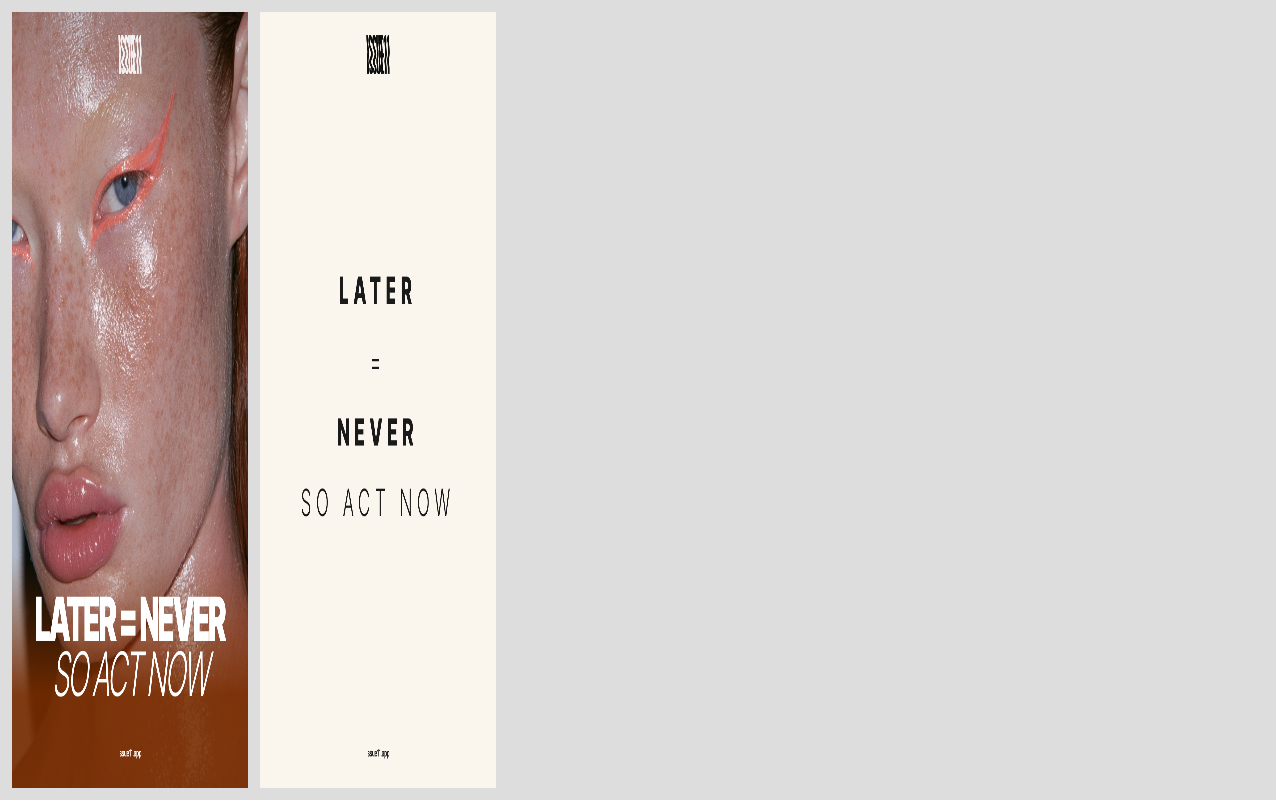
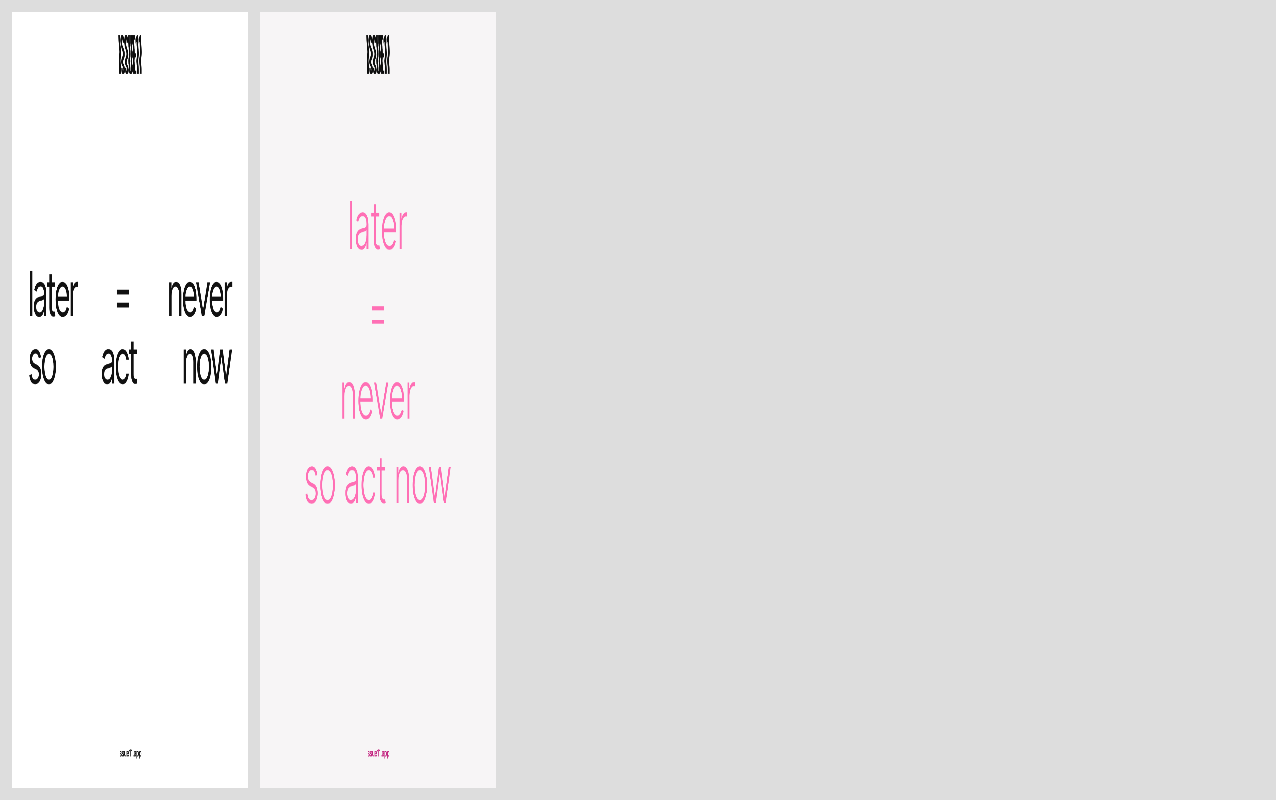
Later = Never so act now in Megan's picked styles (CT218-225)
Claude-Session: https://claude.ai/code/session_01YGtmQppBCBt9nypMHzxSp1

diff --git a/drafts/pinterest/color-test/CT223.dc.html b/drafts/pinterest/color-test/CT223.dc.html
@@ -1,0 +1,38 @@
+<!doctype html>
+<html lang="en">
+<head>
+<meta charset="utf-8">
+<title>Color test 223 · like 118 · repeated line</title>
+<script src="./support.js"></script>
+</head>
+<body>
+<x-dc>
+<helmet>
+<link href="https://fonts.googleapis.com/css2?family=Inter+Tight:wght@500;600;700;800;900&amp;display=swap" rel="stylesheet">
+<style>
+body{margin:0}
+.pin{width:1000px;height:1500px;position:relative;overflow:hidden;font-family:'Inter Tight',system-ui,sans-serif;color:#0D0D0D}
+.bg{position:absolute;inset:0;width:100%;height:100%;object-fit:cover}
+.logo{position:absolute;left:52px;bottom:44px;height:92px}
+.w{filter:invert(1)}
+.tag{position:absolute;font-weight:800;font-size:24px;letter-spacing:.16em;padding:12px 20px;text-transform:uppercase}
+img.f{position:absolute;object-fit:cover;display:block}
+.full{inset:0;width:100%;height:100%}
+.tl{position:absolute;left:50%;top:44px;height:76px;transform:translateX(-50%);z-index:5}
+.url{position:absolute;left:0;right:0;bottom:56px;text-align:center;font-weight:600;font-size:19px;z-index:5}
+.pin{background:#FEFBF4}
+.rep{position:absolute;left:90px;top:200px;color:#6A625A;font-weight:300;font-size:56px;line-height:1.28;letter-spacing:-.02em}
+.rep .hi{color:#C2207E;font-weight:700}
+</style>
+</helmet>
+<div class="pin">
+<img class="tl " src="/_blob/d196614efc6265e2205729134fb523b8" alt="ISSUE11"><div class="rep"><div>Later = Never so act now.</div><div>Later = Never so act now.</div><div>Later = Never so act now.</div><div>Later = Never so act now.</div><div>Later = Never so act now.</div><div>Later = Never so act now.</div><div>Later = Never so act now.</div><div class="hi">Later = Never so act now.</div><div>Later = Never so act now.</div><div>Later = Never so act now.</div><div>Later = Never so act now.</div><div>Later = Never so act now.</div><div>Later = Never so act now.</div><div>Later = Never so act now.</div><div>Later = Never so act now.</div></div><div class="url" style="color:#6A625A">issue11.app</div>
+</div>
+</x-dc>
+<script type="text/x-dc" data-dc-script data-props='{"$preview":{"width":1000,"height":1500}}'>
+class Component extends DCLogic {
+  renderVals() { return {}; }
+}
+</script>
+</body>
+</html>

diff --git a/drafts/pinterest/color-test/CT218.dc.html b/drafts/pinterest/color-test/CT218.dc.html
@@ -1,0 +1,38 @@
+<!doctype html>
+<html lang="en">
+<head>
+<meta charset="utf-8">
+<title>Color test 218 · like 110 · letter + send this to yourself</title>
+<script src="./support.js"></script>
+</head>
+<body>
+<x-dc>
+<helmet>
+<link href="https://fonts.googleapis.com/css2?family=Inter+Tight:wght@500;600;700;800;900&amp;display=swap" rel="stylesheet">
+<style>
+body{margin:0}
+.pin{width:1000px;height:1500px;position:relative;overflow:hidden;font-family:'Inter Tight',system-ui,sans-serif;color:#0D0D0D}
+.bg{position:absolute;inset:0;width:100%;height:100%;object-fit:cover}
+.logo{position:absolute;left:52px;bottom:44px;height:92px}
+.w{filter:invert(1)}
+.tag{position:absolute;font-weight:800;font-size:24px;letter-spacing:.16em;padding:12px 20px;text-transform:uppercase}
+img.f{position:absolute;object-fit:cover;display:block}
+.full{inset:0;width:100%;height:100%}
+.tl{position:absolute;left:50%;top:44px;height:76px;transform:translateX(-50%);z-index:5}
+.url{position:absolute;left:0;right:0;bottom:56px;text-align:center;font-weight:600;font-size:19px;z-index:5}
+.pin{background:#FBF3EA;color:#2A211A}
+.q{position:absolute;left:70px;right:90px;top:380px;font-weight:400;font-size:110px;line-height:1.02;letter-spacing:-.04em}
+.k{position:absolute;left:70px;top:1120px;font-weight:600;font-size:18px;letter-spacing:.24em;text-transform:uppercase}
+</style>
+</helmet>
+<div class="pin">
+<img class="tl " src="/_blob/d196614efc6265e2205729134fb523b8" alt="ISSUE11"><div class="q">Later = Never so act now. Send this to yourself.</div><div class="k">Save · send · act</div><div class="url" style="color:#2A211A">issue11.app</div>
+</div>
+</x-dc>
+<script type="text/x-dc" data-dc-script data-props='{"$preview":{"width":1000,"height":1500}}'>
+class Component extends DCLogic {
+  renderVals() { return {}; }
+}
+</script>
+</body>
+</html>

diff --git a/drafts/pinterest/color-test/CT220.dc.html b/drafts/pinterest/color-test/CT220.dc.html
@@ -1,0 +1,38 @@
+<!doctype html>
+<html lang="en">
+<head>
+<meta charset="utf-8">
+<title>Color test 220 · like 113 · stacked lines</title>
+<script src="./support.js"></script>
+</head>
+<body>
+<x-dc>
+<helmet>
+<link href="https://fonts.googleapis.com/css2?family=Inter+Tight:wght@500;600;700;800;900&amp;display=swap" rel="stylesheet">
+<style>
+body{margin:0}
+.pin{width:1000px;height:1500px;position:relative;overflow:hidden;font-family:'Inter Tight',system-ui,sans-serif;color:#0D0D0D}
+.bg{position:absolute;inset:0;width:100%;height:100%;object-fit:cover}
+.logo{position:absolute;left:52px;bottom:44px;height:92px}
+.w{filter:invert(1)}
+.tag{position:absolute;font-weight:800;font-size:24px;letter-spacing:.16em;padding:12px 20px;text-transform:uppercase}
+img.f{position:absolute;object-fit:cover;display:block}
+.full{inset:0;width:100%;height:100%}
+.tl{position:absolute;left:50%;top:44px;height:76px;transform:translateX(-50%);z-index:5}
+.url{position:absolute;left:0;right:0;bottom:56px;text-align:center;font-weight:600;font-size:19px;z-index:5}
+.pin{background:#FCECEF;color:#1A1A1A}
+.st{position:absolute;left:60px;right:40px;top:260px;font-size:124px;line-height:1.02;letter-spacing:-.05em}
+.st i{font-weight:300}.st b{font-weight:800}
+</style>
+</helmet>
+<div class="pin">
+<img class="tl " src="/_blob/d196614efc6265e2205729134fb523b8" alt="ISSUE11"><div class="st"><b>Later</b> <i>= never,</i><br><b>Later</b> <i>= never,</i><br><b>Later</b> <i>= never,</i><br><b>so act</b><br><b>now.</b></div><div class="url" style="color:#1A1A1A">issue11.app</div>
+</div>
+</x-dc>
+<script type="text/x-dc" data-dc-script data-props='{"$preview":{"width":1000,"height":1500}}'>
+class Component extends DCLogic {
+  renderVals() { return {}; }
+}
+</script>
+</body>
+</html>

diff --git a/drafts/pinterest/color-test/CT224.dc.html b/drafts/pinterest/color-test/CT224.dc.html
@@ -1,0 +1,37 @@
+<!doctype html>
+<html lang="en">
+<head>
+<meta charset="utf-8">
+<title>Color test 224 · like 125 · aura gradient</title>
+<script src="./support.js"></script>
+</head>
+<body>
+<x-dc>
+<helmet>
+<link href="https://fonts.googleapis.com/css2?family=Inter+Tight:wght@500;600;700;800;900&amp;display=swap" rel="stylesheet">
+<style>
+body{margin:0}
+.pin{width:1000px;height:1500px;position:relative;overflow:hidden;font-family:'Inter Tight',system-ui,sans-serif;color:#0D0D0D}
+.bg{position:absolute;inset:0;width:100%;height:100%;object-fit:cover}
+.logo{position:absolute;left:52px;bottom:44px;height:92px}
+.w{filter:invert(1)}
+.tag{position:absolute;font-weight:800;font-size:24px;letter-spacing:.16em;padding:12px 20px;text-transform:uppercase}
+img.f{position:absolute;object-fit:cover;display:block}
+.full{inset:0;width:100%;height:100%}
+.tl{position:absolute;left:50%;top:44px;height:76px;transform:translateX(-50%);z-index:5}
+.url{position:absolute;left:0;right:0;bottom:56px;text-align:center;font-weight:600;font-size:19px;z-index:5}
+.pin{background:radial-gradient(circle at 50% 52%,#FFE2C2 0%,#FFC7A8 18%,#F7A38C 38%,#E9877A 60%,#C9686A 100%)}
+.q{position:absolute;left:150px;right:150px;top:700px;text-align:center;color:#3A1815;font-weight:400;font-size:52px;letter-spacing:-.01em;line-height:1.2}
+</style>
+</helmet>
+<div class="pin">
+<img class="tl " src="/_blob/d196614efc6265e2205729134fb523b8" alt="ISSUE11"><div class="q">later = never so act now</div><div class="url" style="color:#3A1815">issue11.app</div>
+</div>
+</x-dc>
+<script type="text/x-dc" data-dc-script data-props='{"$preview":{"width":1000,"height":1500}}'>
+class Component extends DCLogic {
+  renderVals() { return {}; }
+}
+</script>
+</body>
+</html>

diff --git a/drafts/pinterest/color-test/CT222.dc.html b/drafts/pinterest/color-test/CT222.dc.html
@@ -1,0 +1,37 @@
+<!doctype html>
+<html lang="en">
+<head>
+<meta charset="utf-8">
+<title>Color test 222 · like 115 · spaced words</title>
+<script src="./support.js"></script>
+</head>
+<body>
+<x-dc>
+<helmet>
+<link href="https://fonts.googleapis.com/css2?family=Inter+Tight:wght@500;600;700;800;900&amp;display=swap" rel="stylesheet">
+<style>
+body{margin:0}
+.pin{width:1000px;height:1500px;position:relative;overflow:hidden;font-family:'Inter Tight',system-ui,sans-serif;color:#0D0D0D}
+.bg{position:absolute;inset:0;width:100%;height:100%;object-fit:cover}
+.logo{position:absolute;left:52px;bottom:44px;height:92px}
+.w{filter:invert(1)}
+.tag{position:absolute;font-weight:800;font-size:24px;letter-spacing:.16em;padding:12px 20px;text-transform:uppercase}
+img.f{position:absolute;object-fit:cover;display:block}
+.full{inset:0;width:100%;height:100%}
+.tl{position:absolute;left:50%;top:44px;height:76px;transform:translateX(-50%);z-index:5}
+.url{position:absolute;left:0;right:0;bottom:56px;text-align:center;font-weight:600;font-size:19px;z-index:5}
+.pin{background:#fff}
+.q{position:absolute;left:70px;right:70px;top:480px;color:#111;font-weight:400;font-size:120px;line-height:1.08;letter-spacing:-.03em;text-align:justify;text-align-last:justify;word-spacing:.2em}
+</style>
+</helmet>
+<div class="pin">
+<img class="tl " src="/_blob/d196614efc6265e2205729134fb523b8" alt="ISSUE11"><div class="q">later = never<br>so act now</div><div class="url" style="color:#111">issue11.app</div>
+</div>
+</x-dc>
+<script type="text/x-dc" data-dc-script data-props='{"$preview":{"width":1000,"height":1500}}'>
+class Component extends DCLogic {
+  renderVals() { return {}; }
+}
+</script>
+</body>
+</html>

diff --git a/drafts/pinterest/color-test/CT219.dc.html b/drafts/pinterest/color-test/CT219.dc.html
@@ -1,0 +1,37 @@
+<!doctype html>
+<html lang="en">
+<head>
+<meta charset="utf-8">
+<title>Color test 219 · like 111 · orange + blue italic</title>
+<script src="./support.js"></script>
+</head>
+<body>
+<x-dc>
+<helmet>
+<link href="https://fonts.googleapis.com/css2?family=Inter+Tight:wght@500;600;700;800;900&amp;display=swap" rel="stylesheet">
+<style>
+body{margin:0}
+.pin{width:1000px;height:1500px;position:relative;overflow:hidden;font-family:'Inter Tight',system-ui,sans-serif;color:#0D0D0D}
+.bg{position:absolute;inset:0;width:100%;height:100%;object-fit:cover}
+.logo{position:absolute;left:52px;bottom:44px;height:92px}
+.w{filter:invert(1)}
+.tag{position:absolute;font-weight:800;font-size:24px;letter-spacing:.16em;padding:12px 20px;text-transform:uppercase}
+img.f{position:absolute;object-fit:cover;display:block}
+.full{inset:0;width:100%;height:100%}
+.tl{position:absolute;left:50%;top:44px;height:76px;transform:translateX(-50%);z-index:5}
+.url{position:absolute;left:0;right:0;bottom:56px;text-align:center;font-weight:600;font-size:19px;z-index:5}
+.pin{background:#FF6533}
+.q{position:absolute;left:60px;right:60px;top:470px;text-align:center;color:#24409A;font-style:italic;font-weight:400;font-size:140px;line-height:1;letter-spacing:-.05em}
+</style>
+</helmet>
+<div class="pin">
+<img class="tl " src="/_blob/d196614efc6265e2205729134fb523b8" alt="ISSUE11"><div class="q">Later = Never so act now</div><div class="url" style="color:#24409A">issue11.app</div>
+</div>
+</x-dc>
+<script type="text/x-dc" data-dc-script data-props='{"$preview":{"width":1000,"height":1500}}'>
+class Component extends DCLogic {
+  renderVals() { return {}; }
+}
+</script>
+</body>
+</html>

diff --git a/drafts/pinterest/color-test/CT225.dc.html b/drafts/pinterest/color-test/CT225.dc.html
@@ -1,0 +1,37 @@
+<!doctype html>
+<html lang="en">
+<head>
+<meta charset="utf-8">
+<title>Color test 225 · like 137 · big pink spaced text</title>
+<script src="./support.js"></script>
+</head>
+<body>
+<x-dc>
+<helmet>
+<link href="https://fonts.googleapis.com/css2?family=Inter+Tight:wght@500;600;700;800;900&amp;display=swap" rel="stylesheet">
+<style>
+body{margin:0}
+.pin{width:1000px;height:1500px;position:relative;overflow:hidden;font-family:'Inter Tight',system-ui,sans-serif;color:#0D0D0D}
+.bg{position:absolute;inset:0;width:100%;height:100%;object-fit:cover}
+.logo{position:absolute;left:52px;bottom:44px;height:92px}
+.w{filter:invert(1)}
+.tag{position:absolute;font-weight:800;font-size:24px;letter-spacing:.16em;padding:12px 20px;text-transform:uppercase}
+img.f{position:absolute;object-fit:cover;display:block}
+.full{inset:0;width:100%;height:100%}
+.tl{position:absolute;left:50%;top:44px;height:76px;transform:translateX(-50%);z-index:5}
+.url{position:absolute;left:0;right:0;bottom:56px;text-align:center;font-weight:600;font-size:19px;z-index:5}
+.pin{background:#F7F5F6}
+.q{position:absolute;left:80px;right:80px;top:330px;text-align:center;color:#FF6FB5;font-weight:300;font-size:128px;line-height:1.28;letter-spacing:.01em}
+</style>
+</helmet>
+<div class="pin">
+<img class="tl " src="/_blob/d196614efc6265e2205729134fb523b8" alt="ISSUE11"><div class="q">later<br>=<br>never<br>so act now</div><div class="url" style="color:#C2207E">issue11.app</div>
+</div>
+</x-dc>
+<script type="text/x-dc" data-dc-script data-props='{"$preview":{"width":1000,"height":1500}}'>
+class Component extends DCLogic {
+  renderVals() { return {}; }
+}
+</script>
+</body>
+</html>

diff --git a/drafts/pinterest/color-test/CT221.dc.html b/drafts/pinterest/color-test/CT221.dc.html
@@ -1,0 +1,37 @@
+<!doctype html>
+<html lang="en">
+<head>
+<meta charset="utf-8">
+<title>Color test 221 · like 114 · pink centred quote</title>
+<script src="./support.js"></script>
+</head>
+<body>
+<x-dc>
+<helmet>
+<link href="https://fonts.googleapis.com/css2?family=Inter+Tight:wght@500;600;700;800;900&amp;display=swap" rel="stylesheet">
+<style>
+body{margin:0}
+.pin{width:1000px;height:1500px;position:relative;overflow:hidden;font-family:'Inter Tight',system-ui,sans-serif;color:#0D0D0D}
+.bg{position:absolute;inset:0;width:100%;height:100%;object-fit:cover}
+.logo{position:absolute;left:52px;bottom:44px;height:92px}
+.w{filter:invert(1)}
+.tag{position:absolute;font-weight:800;font-size:24px;letter-spacing:.16em;padding:12px 20px;text-transform:uppercase}
+img.f{position:absolute;object-fit:cover;display:block}
+.full{inset:0;width:100%;height:100%}
+.tl{position:absolute;left:50%;top:44px;height:76px;transform:translateX(-50%);z-index:5}
+.url{position:absolute;left:0;right:0;bottom:56px;text-align:center;font-weight:600;font-size:19px;z-index:5}
+.pin{background:#FCD4DA}
+.q{position:absolute;left:110px;right:110px;top:480px;text-align:center;color:#2A0F18;font-weight:700;font-size:96px;line-height:1.35;letter-spacing:-.02em}
+</style>
+</helmet>
+<div class="pin">
+<img class="tl " src="/_blob/d196614efc6265e2205729134fb523b8" alt="ISSUE11"><div class="q">Later = Never so act now</div><div class="url" style="color:#2A0F18">issue11.app</div>
+</div>
+</x-dc>
+<script type="text/x-dc" data-dc-script data-props='{"$preview":{"width":1000,"height":1500}}'>
+class Component extends DCLogic {
+  renderVals() { return {}; }
+}
+</script>
+</body>
+</html>

diff --git a/drafts/pinterest/color-test/gen25.py b/drafts/pinterest/color-test/gen25.py
@@ -1,0 +1,28 @@
+# CT218–CT224 (Nov 17): "Later = Never so act now" in Megan's picked styles. Megan: "especially in the 110 111 113 114 115 118 125 styles".
+import gen9, gen8
+from gen import doc
+from gen12 import S, T, U
+P={}
+L='Later = Never so act now'
+P['CT218']=doc('Color test 218 · like 110 · letter + send this to yourself',S+""".pin{background:#FBF3EA;color:#2A211A}
+.q{position:absolute;left:70px;right:90px;top:380px;font-weight:400;font-size:110px;line-height:1.02;letter-spacing:-.04em}
+.k{position:absolute;left:70px;top:1120px;font-weight:600;font-size:18px;letter-spacing:.24em;text-transform:uppercase}""",f"""{T()}<div class="q">Later = Never so act now. Send this to yourself.</div><div class="k">Save · send · act</div>{U('#2A211A')}""")
+P['CT219']=doc('Color test 219 · like 111 · orange + blue italic',S+""".pin{background:#FF6533}
+.q{position:absolute;left:60px;right:60px;top:470px;text-align:center;color:#24409A;font-style:italic;font-weight:400;font-size:140px;line-height:1;letter-spacing:-.05em}""",f"""{T()}<div class="q">{L}</div>{U('#24409A')}""")
+P['CT220']=doc('Color test 220 · like 113 · stacked lines',S+""".pin{background:#FCECEF;color:#1A1A1A}
+.st{position:absolute;left:60px;right:40px;top:260px;font-size:124px;line-height:1.02;letter-spacing:-.05em}
+.st i{font-weight:300}.st b{font-weight:800}""",f"""{T()}<div class="st"><b>Later</b> <i>= never,</i><br><b>Later</b> <i>= never,</i><br><b>Later</b> <i>= never,</i><br><b>so act</b><br><b>now.</b></div>{U('#1A1A1A')}""")
+P['CT221']=doc('Color test 221 · like 114 · pink centred quote',S+""".pin{background:#FCD4DA}
+.q{position:absolute;left:110px;right:110px;top:480px;text-align:center;color:#2A0F18;font-weight:700;font-size:96px;line-height:1.35;letter-spacing:-.02em}""",f"""{T()}<div class="q">{L}</div>{U('#2A0F18')}""")
+P['CT222']=doc('Color test 222 · like 115 · spaced words',S+""".pin{background:#fff}
+.q{position:absolute;left:70px;right:70px;top:480px;color:#111;font-weight:400;font-size:120px;line-height:1.08;letter-spacing:-.03em;text-align:justify;text-align-last:justify;word-spacing:.2em}""",f"""{T()}<div class="q">later = never<br>so act now</div>{U('#111')}""")
+rep=''.join('<div>Later = Never so act now.</div>' for _ in range(7))+'<div class="hi">Later = Never so act now.</div>'+''.join('<div>Later = Never so act now.</div>' for _ in range(7))
+P['CT223']=doc('Color test 223 · like 118 · repeated line',S+""".pin{background:#FEFBF4}
+.rep{position:absolute;left:90px;top:200px;color:#6A625A;font-weight:300;font-size:56px;line-height:1.28;letter-spacing:-.02em}
+.rep .hi{color:#C2207E;font-weight:700}""",f"""{T()}<div class="rep">{rep}</div>{U('#6A625A')}""")
+P['CT224']=doc('Color test 224 · like 125 · aura gradient',S+""".pin{background:radial-gradient(circle at 50% 52%,#FFE2C2 0%,#FFC7A8 18%,#F7A38C 38%,#E9877A 60%,#C9686A 100%)}
+.q{position:absolute;left:150px;right:150px;top:700px;text-align:center;color:#3A1815;font-weight:400;font-size:52px;letter-spacing:-.01em;line-height:1.2}""",f"""{T()}<div class="q">later = never so act now</div>{U('#3A1815')}""")
+P['CT225']=doc('Color test 225 · like 137 · big pink spaced text',S+""".pin{background:#F7F5F6}
+.q{position:absolute;left:80px;right:80px;top:330px;text-align:center;color:#FF6FB5;font-weight:300;font-size:128px;line-height:1.28;letter-spacing:.01em}""",f"""{T()}<div class="q">later<br>=<br>never<br>so act now</div>{U('#C2207E')}""")
+for k,v in P.items(): open(f'{k}.dc.html','w').write(v)
+print(len(P))

diff --git a/drafts/pinterest/color-test/COLOR-TEST.md b/drafts/pinterest/color-test/COLOR-TEST.md
@@ -172,3 +172,6 @@ Megan: "I think we should do magazine cover styles like 87, 86, 51, 52m etc 64".
 ## Variations batch 1 · CT201–CT210 + phone notes · CT211–CT215 (Nov 17)
 Megan: "now you can simply reproduce and create varieties of the ones we have approved" and "the pin format we posted is working so we can use that as well, phone notes / Let's add that in the pin formats". Phone notes (batch1 notes(), live Pin01/02/06) are now part of the loved format set. 211–215 cover searched topics: beginners, scripting, 369, money, dream life prompts.
 - Variations batch 1: 201–210 all validated (Megan, Nov 17: "all of them from 201 to 210 are validated"), moved to favourites
+
+## "Later = Never so act now" · CT216–CT225 (Nov 17)
+Megan's line in her picked styles: 45, 138, 110, 111, 113, 114, 115, 118, 125, 137.
